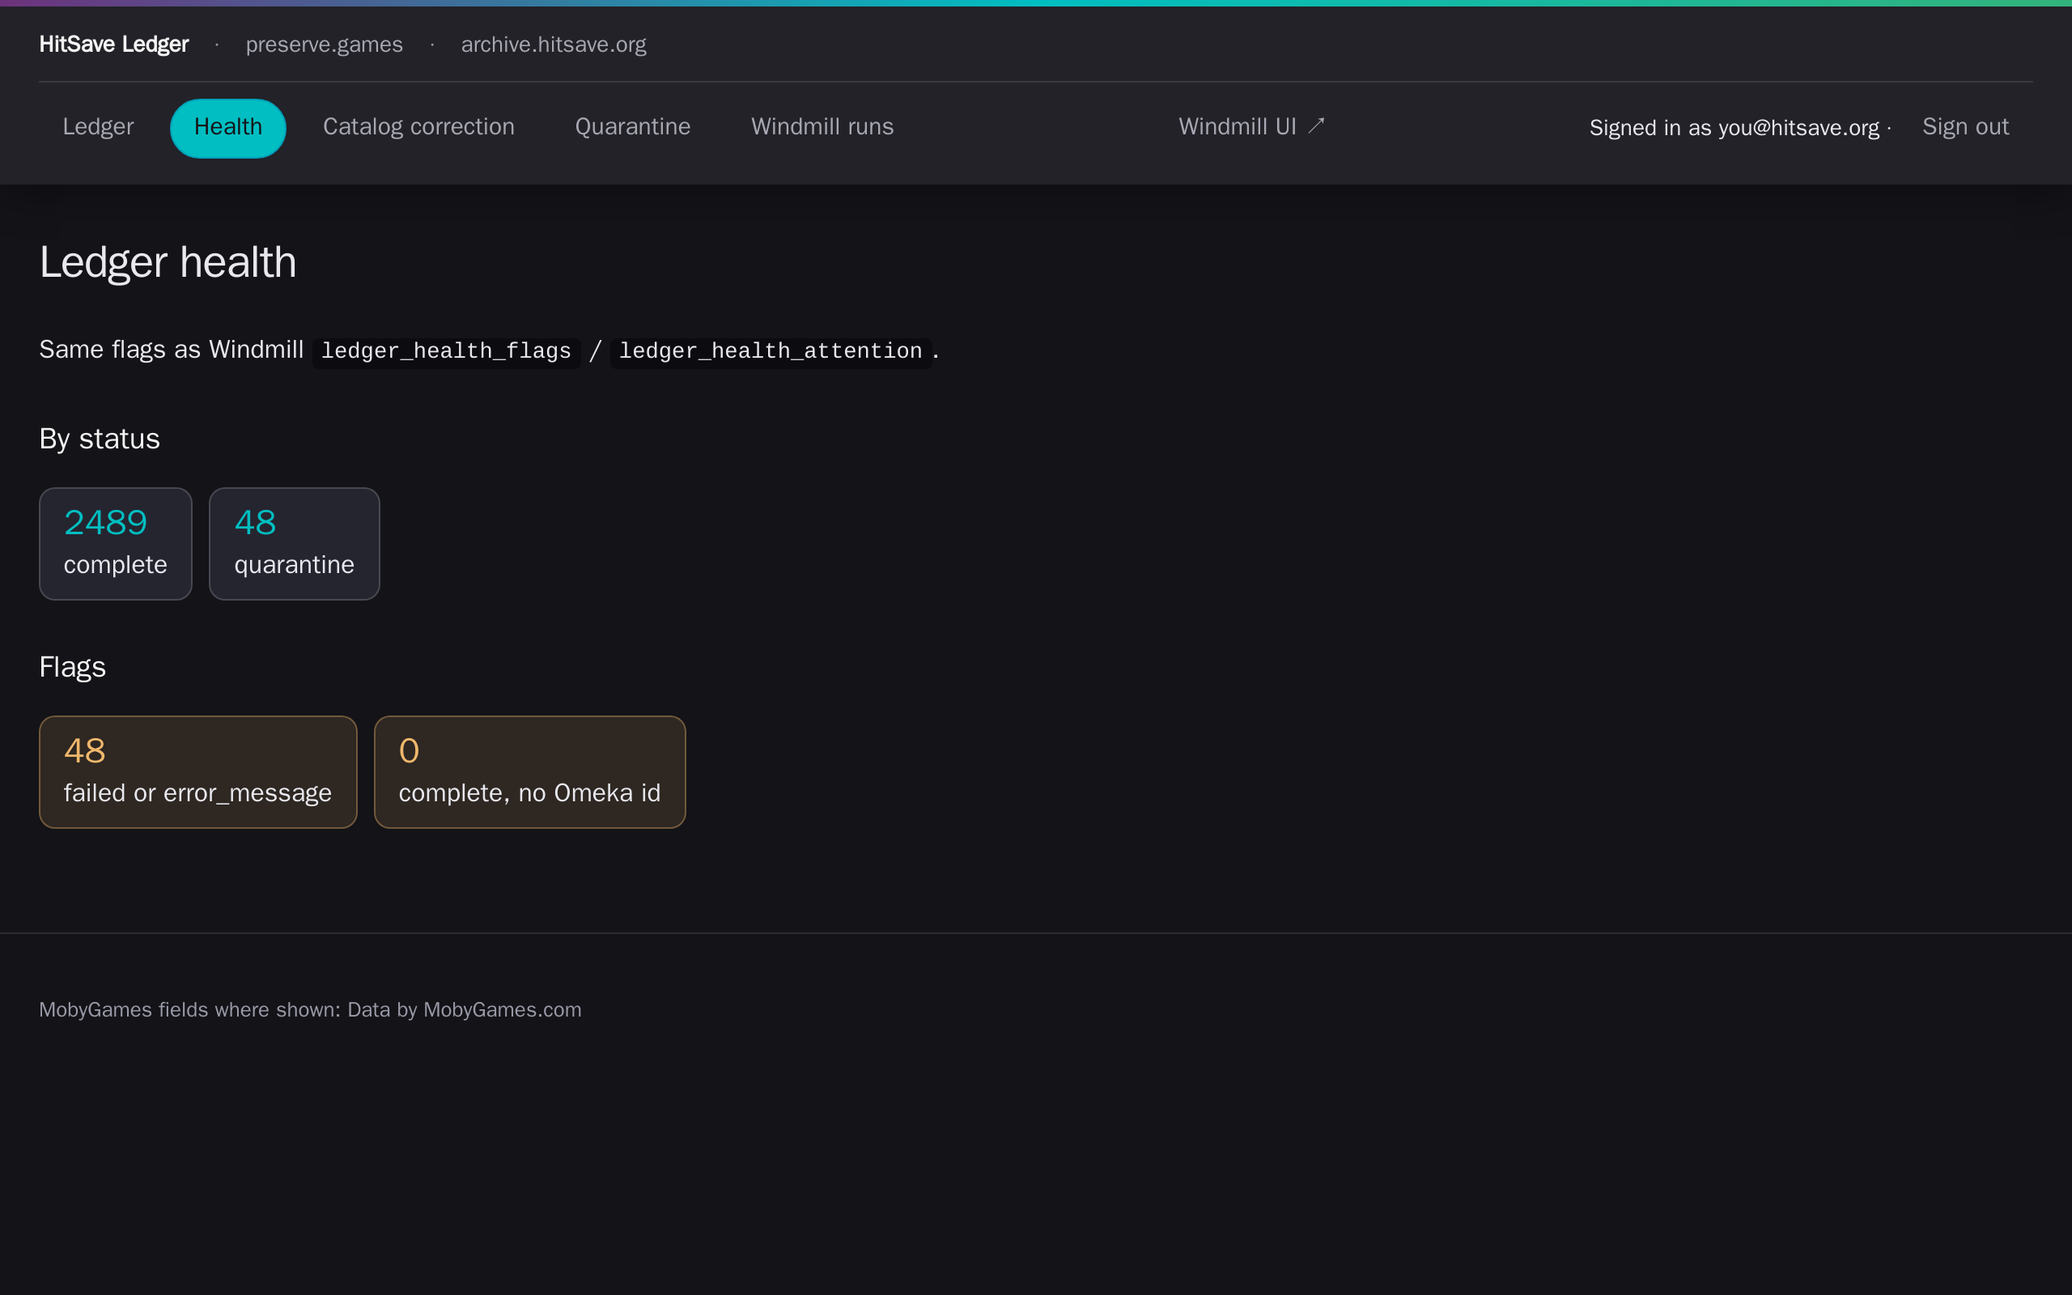
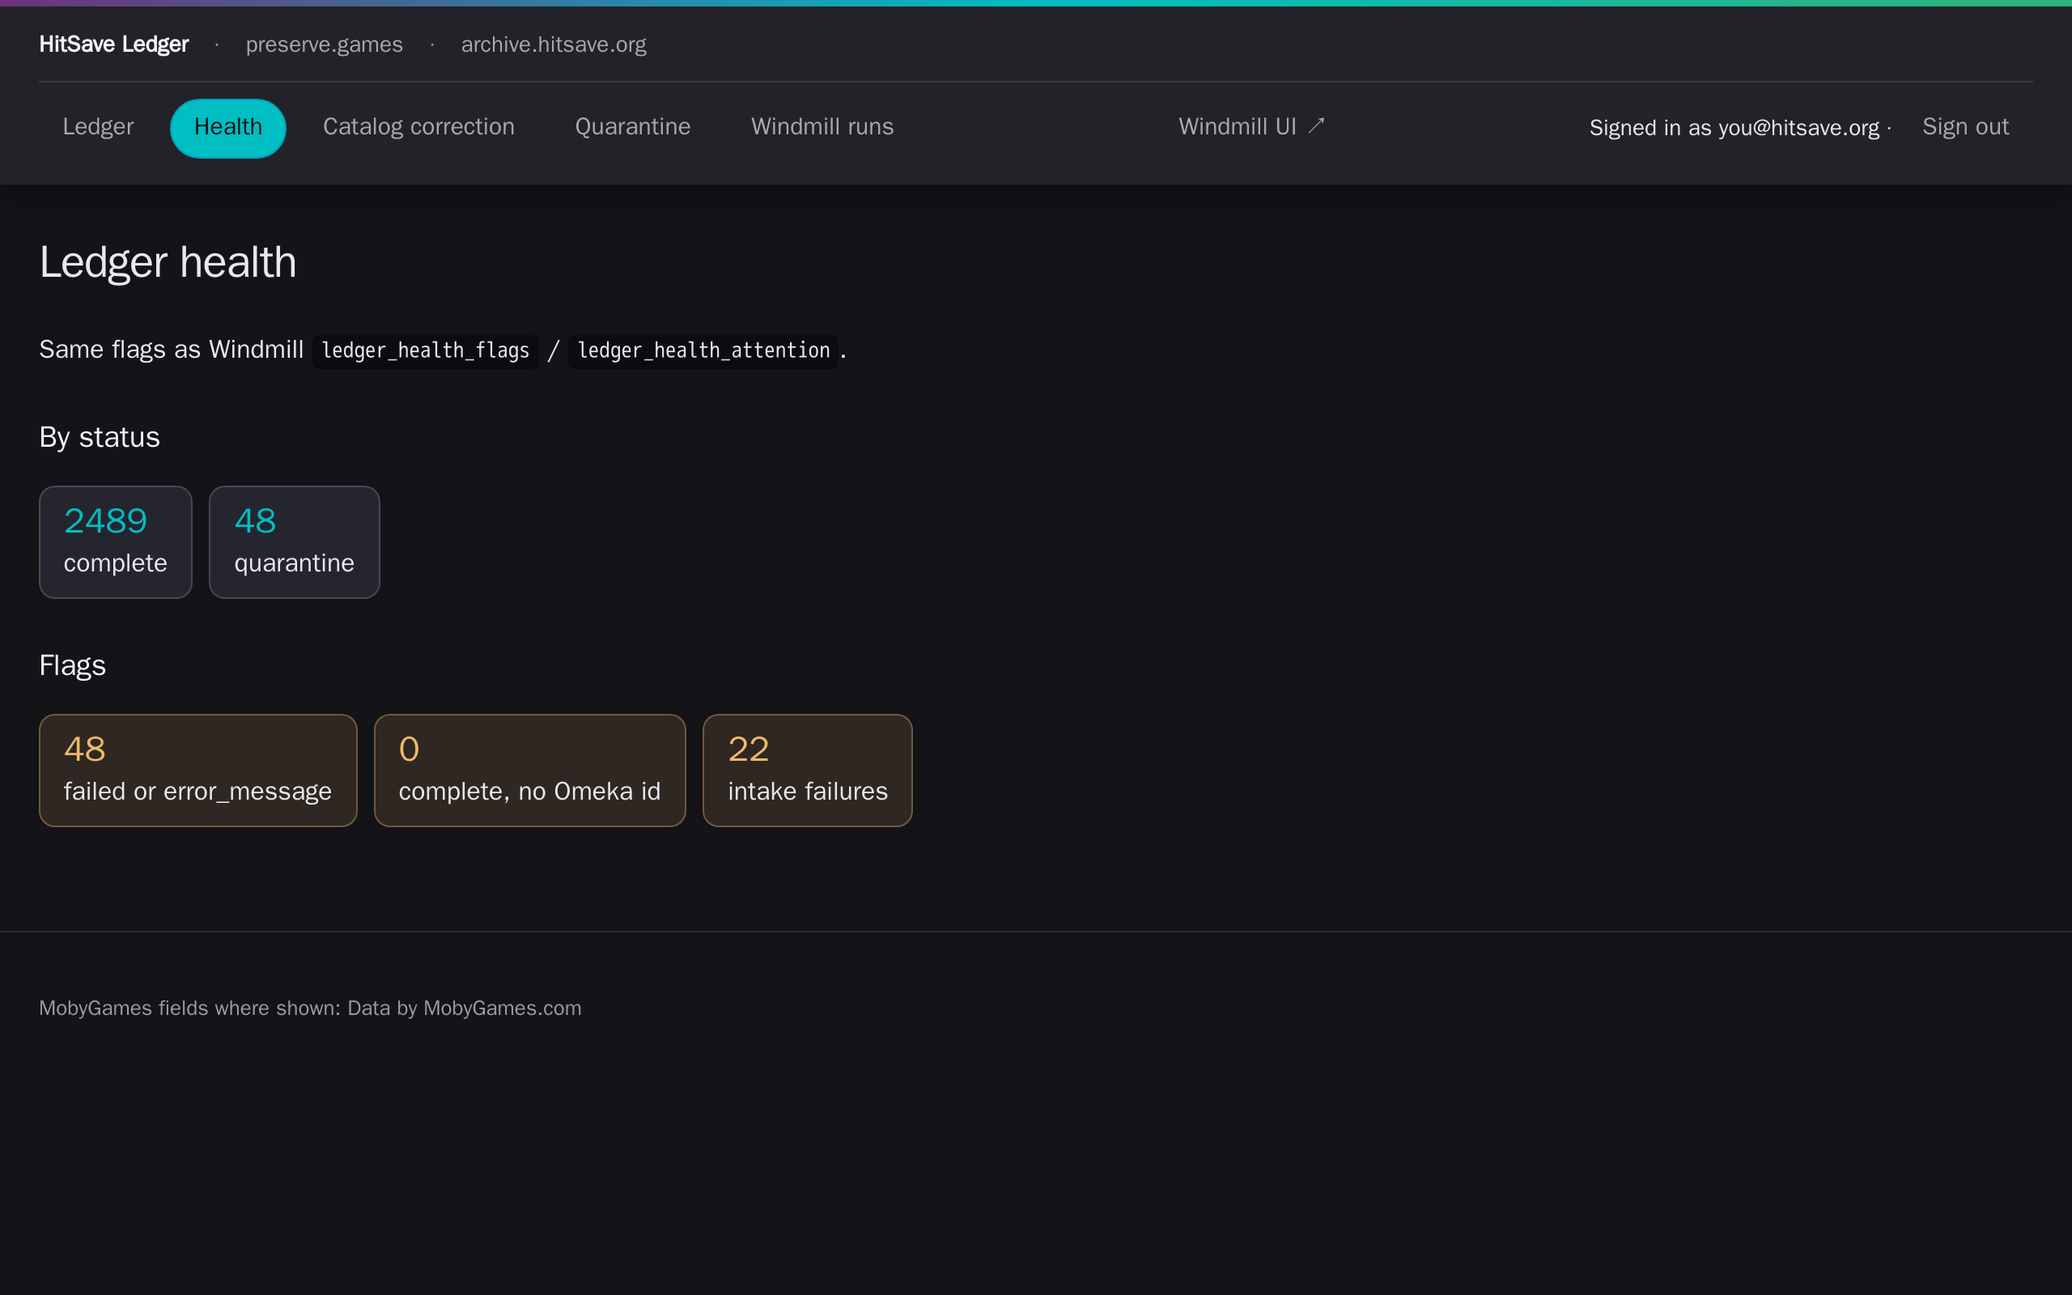
Record intake rejections in the ledger so the Health page lists them anywhere (#85)
- scripts/remote-intake/sync_intake_rejections.py mirrors intake's failed/
  folder into the ledger table intake_rejection (one transaction; leaves the
  table alone if the folder isn't mounted). Both per-folder runners call it at
  the end of every sweep (remote_intake_sync_rejections in common.sh, guarded
  against a missing folder). schema/010_intake_rejection.sql for new ledgers.
- Ledger app: reads failed/ when it's mounted, otherwise the table, so the
  Health page lists rejections again on luigi.
- Archivist guide: "If your package doesn't appear" points at the Intake
  failures list again; Health screenshot updated.

diff --git a/scripts/remote-intake/sync_intake_rejections.py b/scripts/remote-intake/sync_intake_rejections.py
@@ -1,0 +1,107 @@
+#!/usr/bin/env python3
+"""Mirror intake's failed/ folder into the ledger table intake_rejection.
+
+Intake rejects a package before it reaches the ledger (checksum mismatch, missing sidecar, wrong
+lane) and leaves it in failed/<slug>/ with an error.txt. That folder only exists on the host that
+runs intake, so the ledger app (which may run elsewhere) reads this table instead.
+
+Run at the end of each intake sweep, in the ingest-worker image:
+  -v "$HOST_INTAKE/failed:/data/intake-failed:ro" ... python sync_intake_rejections.py
+The table then holds exactly the packages currently in failed/. If the folder isn't mounted, the
+script changes nothing (it never empties the table because of a missing mount).
+"""
+from __future__ import annotations
+
+import argparse
+import sys
+from dataclasses import dataclass
+from datetime import datetime, timezone
+from pathlib import Path
+
+sys.path.insert(0, str(Path(__file__).resolve().parents[1]))
+from batch_ledger import pg_connect  # noqa: E402
+
+REASON_MAX = 300
+LANE_PREFIXES = {"redump-": "redump", "nointro-": "no-intro", "others-": "others"}
+
+DDL = """
+CREATE TABLE IF NOT EXISTS intake_rejection (
+    slug        text PRIMARY KEY,
+    lane        text,
+    reason      text NOT NULL,
+    failed_at   timestamptz NOT NULL,
+    recorded_at timestamptz NOT NULL DEFAULT now()
+)
+"""
+
+
+@dataclass
+class Rejection:
+    slug: str
+    lane: str | None
+    reason: str
+    failed_at: datetime
+
+
+def lane_for_slug(slug: str) -> str | None:
+    for prefix, lane in LANE_PREFIXES.items():
+        if slug.startswith(prefix):
+            return lane
+    return None
+
+
+def scan(failed_dir: Path) -> list[Rejection]:
+    """Every failed/<slug>/ folder: first line of error.txt and when it failed."""
+    out: list[Rejection] = []
+    for entry in sorted(failed_dir.iterdir()):
+        if not entry.is_dir() or entry.is_symlink():
+            continue
+        err = entry / "error.txt"
+        try:
+            st = (err if err.is_file() else entry).stat()
+            text = err.read_text(encoding="utf-8", errors="replace").strip() if err.is_file() else ""
+        except OSError:
+            continue
+        reason = (text.splitlines()[0] if text else "(no error.txt)")[:REASON_MAX]
+        out.append(Rejection(entry.name, lane_for_slug(entry.name), reason,
+                             datetime.fromtimestamp(st.st_mtime, timezone.utc)))
+    return out
+
+
+def sync(conn, rejections: list[Rejection]) -> tuple[int, int]:
+    """Make the table equal to rejections in one transaction. Returns (kept/updated, removed)."""
+    slugs = [r.slug for r in rejections]
+    with conn.transaction():
+        conn.execute(DDL)
+        removed = conn.execute(
+            "DELETE FROM intake_rejection WHERE NOT (slug = ANY(%s))", (slugs,)
+        ).rowcount
+        for r in rejections:
+            conn.execute(
+                """INSERT INTO intake_rejection (slug, lane, reason, failed_at)
+                   VALUES (%s, %s, %s, %s)
+                   ON CONFLICT (slug) DO UPDATE
+                   SET lane = EXCLUDED.lane, reason = EXCLUDED.reason, failed_at = EXCLUDED.failed_at,
+                       recorded_at = CASE WHEN intake_rejection.failed_at = EXCLUDED.failed_at
+                                          THEN intake_rejection.recorded_at ELSE now() END""",
+                (r.slug, r.lane, r.reason, r.failed_at),
+            )
+    return len(rejections), removed
+
+
+def main() -> int:
+    ap = argparse.ArgumentParser(description=__doc__.splitlines()[0])
+    ap.add_argument("--failed-dir", type=Path, default=Path("/data/intake-failed"))
+    args = ap.parse_args()
+    if not args.failed_dir.is_dir():
+        print(f"intake rejections: {args.failed_dir} not mounted; ledger table left unchanged", file=sys.stderr)
+        return 0
+    rejections = scan(args.failed_dir)
+    with pg_connect() as conn:
+        n, removed = sync(conn, rejections)
+    print(f"intake rejections: {n} in failed/, {removed} removed from the ledger table")
+    return 0
+
+
+if __name__ == "__main__":
+    sys.exit(main())

diff --git a/ledger/intake_failures.py b/ledger/intake_failures.py
@@ -47,9 +47,40 @@ def scan_failed_dir(failed_dir: Path = FAILED_DIR) -> list[IntakeFailure]:
     return out
 
 
+def ledger_rejections(connect: Callable[[], Any]) -> list[IntakeFailure] | None:
+    """Rows of the ledger table intake_rejection (mirror of failed/, synced by each intake sweep),
+    newest first; None when the table doesn't exist yet."""
+    with connect() as conn:
+        exists = conn.execute("SELECT to_regclass('intake_rejection') IS NOT NULL").fetchone()[0]
+        if not exists:
+            return None
+        rows = conn.execute(
+            "SELECT slug, failed_at, reason FROM intake_rejection ORDER BY failed_at DESC"
+        ).fetchall()
+    return [IntakeFailure(slug, failed_at, (reason or "")[:REASON_MAX]) for slug, failed_at, reason in rows]
+
+
+def load_failures(
+    connect: Callable[[], Any], failed_dir: Path = FAILED_DIR
+) -> tuple[list[IntakeFailure], int, bool]:
+    """(open failures, resolved count, available). Reads failed/ when it's mounted here, else the
+    ledger table; available is False when neither exists."""
+    if failed_dir.is_dir():
+        return (*open_failures(connect, failed_dir), True)
+    failures = ledger_rejections(connect)
+    if failures is None:
+        return [], 0, False
+    return (*_drop_resolved(connect, failures), True)
+
+
 def open_failures(connect: Callable[[], Any], failed_dir: Path = FAILED_DIR) -> tuple[list[IntakeFailure], int]:
     """(still-open failures, count resolved since: slug preserved later per the ledger)."""
-    failures = scan_failed_dir(failed_dir)
+    return _drop_resolved(connect, scan_failed_dir(failed_dir))
+
+
+def _drop_resolved(
+    connect: Callable[[], Any], failures: list[IntakeFailure]
+) -> tuple[list[IntakeFailure], int]:
     if not failures:
         return [], 0
     sources = [READY_SOURCE_PREFIX + f.slug for f in failures]
@@ -64,9 +95,15 @@ def open_failures(connect: Callable[[], Any], failed_dir: Path = FAILED_DIR) -> 
 
 
 def render_intake_failures(
-    failures: list[IntakeFailure], resolved: int, *, failed_dir: Path = FAILED_DIR
+    failures: list[IntakeFailure],
+    resolved: int,
+    *,
+    failed_dir: Path = FAILED_DIR,
+    available: bool | None = None,
 ) -> str:
-    if not failed_dir.is_dir():
+    if available is None:
+        available = failed_dir.is_dir()
+    if not available:
         return (
             '<p class="muted">Intake failures aren\'t available here: the intake <code>failed/</code> '
             "folder isn't mounted on this host (intake runs elsewhere). Ask an admin, or check the "
@@ -76,7 +113,8 @@ def render_intake_failures(
         "<p>Packages intake rejected before they reached the ledger, usually because a file "
         "didn't match the checksums in its sidecar, or the upload was incomplete. Intake tries "
         "again automatically once the package changes in the inbox (re-upload or fix the sidecar). "
-        "Details: <code>failed/&lt;package&gt;/error.txt</code> in the intake folder.</p>"
+        "The full error is in <code>failed/&lt;package&gt;/error.txt</code> in the intake folder; "
+        "ask an admin if the first line isn't enough.</p>"
     )
     note = f'<p class="muted">{resolved} older failure(s) not shown: those packages were preserved later.</p>' if resolved else ""
     if not failures:

diff --git a/tests/test_sync_intake_rejections.py b/tests/test_sync_intake_rejections.py
@@ -1,0 +1,75 @@
+"""sync_intake_rejections: the ledger table mirrors intake's failed/ folder."""
+from __future__ import annotations
+
+import importlib.util
+import os
+import sys
+from pathlib import Path
+
+ROOT = Path(__file__).resolve().parents[1]
+sys.path.insert(0, str(ROOT / "scripts"))
+_spec = importlib.util.spec_from_file_location(
+    "sync_intake_rejections", ROOT / "scripts/remote-intake/sync_intake_rejections.py")
+sync_mod = importlib.util.module_from_spec(_spec)
+_spec.loader.exec_module(sync_mod)
+
+
+def _fail(root: Path, slug: str, text: str | None, mtime: int) -> None:
+    d = root / slug
+    d.mkdir(parents=True)
+    if text is not None:
+        (d / "error.txt").write_text(text)
+        os.utime(d / "error.txt", (mtime, mtime))
+
+
+def test_scan_reads_first_line_and_lane(tmp_path: Path) -> None:
+    _fail(tmp_path, "nointro-aka", "no-intro/ lane needs a No-Intro dumpinfo.txt\nmore detail", 1_000)
+    _fail(tmp_path, "redump-disc", None, 2_000)
+    _fail(tmp_path, "legacy-x", "boom", 3_000)
+    (tmp_path / "stray.txt").write_text("not a package")
+    got = {r.slug: r for r in sync_mod.scan(tmp_path)}
+    assert set(got) == {"nointro-aka", "redump-disc", "legacy-x"}
+    assert got["nointro-aka"].reason == "no-intro/ lane needs a No-Intro dumpinfo.txt"
+    assert got["nointro-aka"].lane == "no-intro" and got["legacy-x"].lane is None
+    assert got["redump-disc"].reason == "(no error.txt)"
+
+
+class _Conn:
+    def __init__(self):
+        self.calls = []
+
+    def transaction(self):
+        conn = self
+
+        class _T:
+            def __enter__(self):
+                conn.calls.append(("BEGIN",))
+
+            def __exit__(self, *exc):
+                conn.calls.append(("COMMIT",))
+                return False
+        return _T()
+
+    def execute(self, sql, params=None):
+        self.calls.append((" ".join(sql.split())[:40], params))
+
+        class _R:
+            rowcount = 2
+        return _R()
+
+
+def test_sync_replaces_table_in_one_transaction(tmp_path: Path) -> None:
+    _fail(tmp_path, "others-press-kit", "boom", 1_000)
+    conn = _Conn()
+    n, removed = sync_mod.sync(conn, sync_mod.scan(tmp_path))
+    assert (n, removed) == (1, 2)
+    kinds = [c[0].split()[0] for c in conn.calls]
+    assert kinds == ["BEGIN", "CREATE", "DELETE", "INSERT", "COMMIT"]
+    assert conn.calls[2][1] == (["others-press-kit"],)
+
+
+def test_missing_folder_changes_nothing(tmp_path: Path, monkeypatch, capsys) -> None:
+    monkeypatch.setattr(sys, "argv", ["x", "--failed-dir", str(tmp_path / "not-mounted")])
+    monkeypatch.setattr(sync_mod, "pg_connect", lambda: (_ for _ in ()).throw(AssertionError("no DB")))
+    assert sync_mod.main() == 0
+    assert "left unchanged" in capsys.readouterr().err

diff --git a/tests/test_intake_failures_web.py b/tests/test_intake_failures_web.py
@@ -81,3 +81,50 @@ def test_render_escapes_and_handles_empty(tmp_path: Path) -> None:
 def test_render_says_unavailable_when_folder_not_mounted(tmp_path: Path) -> None:
     page = render_intake_failures([], 0, failed_dir=tmp_path / "not-mounted")
     assert "aren't available here" in page and "No open intake failures" not in page
+
+
+class _TableConn(_Conn):
+    """Fake connection for the ledger-table path (failed/ not mounted where the ledger runs)."""
+
+    def __init__(self, rows, complete_sources=(), table=True):
+        super().__init__(complete_sources)
+        self.rows, self.table = rows, table
+
+    def execute(self, sql, params=None):
+        if "to_regclass" in sql:
+            return _Result([(self.table,)])
+        if "FROM intake_rejection" in sql:
+            return _Result(self.rows)
+        return super().execute(sql, params)
+
+
+class _Result:
+    def __init__(self, rows):
+        self.rows = rows
+
+    def fetchone(self):
+        return self.rows[0]
+
+    def fetchall(self):
+        return self.rows
+
+
+def test_reads_ledger_table_when_failed_dir_not_mounted(tmp_path: Path) -> None:
+    from datetime import datetime, timezone
+
+    from intake_failures import load_failures
+
+    t = datetime(2026, 11, 2, 12, 0, tzinfo=timezone.utc)
+    conn = _TableConn([("nointro-cart", t, "SHA-1 mismatch"), ("redump-fixed", t, "old")],
+                      complete_sources=["/data/intake/ready/redump-fixed"])
+    open_, resolved, available = load_failures(lambda: conn, tmp_path / "not-mounted")
+    assert available and resolved == 1
+    assert [(f.slug, f.reason) for f in open_] == [("nointro-cart", "SHA-1 mismatch")]
+    page = render_intake_failures(open_, resolved, available=True)
+    assert "nointro-cart" in page and "aren't available" not in page
+
+
+def test_unavailable_without_folder_or_table(tmp_path: Path) -> None:
+    from intake_failures import load_failures
+
+    assert load_failures(lambda: _TableConn([], table=False), tmp_path / "x") == ([], 0, False)

diff --git a/ledger/app.py b/ledger/app.py
@@ -26,7 +26,7 @@ from catalog_quarantine import (
 )
 from catalog_visibility import run_visibility
 from ledger_health import fetch_attention_rows, fetch_health_summary
-from intake_failures import FAILED_DIR, open_failures, render_intake_failures
+from intake_failures import load_failures, render_intake_failures
 
 sys.path.insert(0, str(Path("/app/scripts")))
 from ledger_health_report import (  # noqa: E402
@@ -462,8 +462,7 @@ def render_health(*, sort: str = "updated_at", sort_dir: str = "desc") -> bytes:
         f'<div class="chip chip-warn"><strong>{missing_omeka}</strong>complete, no Omeka id</div>'
     )
     rows = fetch_attention_rows(connect, sort=sort, sort_dir=sort_dir)
-    intake_open, intake_resolved = open_failures(connect)
-    intake_here = FAILED_DIR.is_dir()
+    intake_open, intake_resolved, intake_here = load_failures(connect)
     if intake_here:
         flag_chips += (
             f'<div class="chip chip-warn"><strong>{len(intake_open)}</strong>intake failures</div>'
@@ -478,7 +477,7 @@ def render_health(*, sort: str = "updated_at", sort_dir: str = "desc") -> bytes:
 <p>Failed, quarantined, <code>complete</code> without <code>omeka_item_id</code>, or non-empty <code>error_message</code>.</p>
 {_render_attention_table(rows, sort=sort, sort_dir=sort_dir)}
 <h2>Intake failures{f' ({len(intake_open)})' if intake_here else ''}</h2>
-{render_intake_failures(intake_open, intake_resolved)}"""
+{render_intake_failures(intake_open, intake_resolved, available=intake_here)}"""
     return render_page_shell(
         title="Ledger health", active="health", inner=inner, status_config=CONFIG
     )

diff --git a/docs/archivist-guide.md b/docs/archivist-guide.md
@@ -108,23 +108,26 @@ catalog title. You can still [fix a title](#fix-a-catalog-record) later.
 
 The **Health** page shows the same packages from the other side: counts by status, and an
 **Attention queue** of every package that needs someone, such as quarantined or failed packages and
-complete packages without a catalog record. If the attention queue is empty, nothing needs you.
+complete packages without a catalog record. Below it, **Intake failures** lists packages the archive
+rejected before they reached the ledger. If both lists are empty, nothing needs you.
 
 ![The top of the Health page: counts by status and the flags that need attention](images/archivist-guide/health-summary.png)
 
 ### If your package doesn't appear
 
-If a package hasn't appeared in the ledger three hours after its upload finished, the archive
-probably rejected it before it got that far. The usual reasons are:
+If a package doesn't appear in the ledger, the archive probably rejected it before it got that far.
+The **Health** page lists rejected packages, with the reason, under **Intake failures** at the
+bottom. The usual reasons are:
 
 - A file doesn't match the checksums in the sidecar, often because the upload was cut short.
 - The sidecar is missing.
-- The dump is in the wrong inbox, for example a No-Intro dump in `redump`.
+- The dump is in the wrong inbox. The reason then says where it belongs, for example
+  `this looks like a No-Intro dump: move it to no-intro/`.
 
-The ledger can't show these rejections at the moment, so ask an admin, who can see the reason. To
-fix the problem, correct the folder in the inbox: upload the damaged file again, add or replace the
+To fix it, correct the folder in the inbox: upload the damaged file again, add or replace the
 sidecar, or move the folder to the right inbox. The archive notices the change and tries again on
-its own. It doesn't retry a folder that hasn't changed.
+its own; it doesn't retry a folder that hasn't changed. The list updates after every inbox check,
+so a fixed package drops off within about 30 minutes after the archive takes it in.
 
 ## Leave the inbox and processed folders to the archive
 
@@ -223,7 +226,7 @@ Before the archive preserves a package:
 | Check | What it catches | If it fails |
 |---|---|---|
 | **Upload finished**: nothing changed for one hour | Uploads still in progress | The archive waits and checks again. |
-| **Sidecar checksums**: size, MD5, SHA-1 and CRC32 of every file (`redump` and `no-intro`) | Damaged or incomplete files, or the wrong sidecar | The package never reaches the ledger; see [If your package doesn't appear](#if-your-package-doesnt-appear). |
+| **Sidecar checksums**: size, MD5, SHA-1 and CRC32 of every file (`redump` and `no-intro`) | Damaged or incomplete files, or the wrong sidecar | The package never reaches the ledger and appears under **Intake failures** on the Health page; see [If your package doesn't appear](#if-your-package-doesnt-appear). |
 | **Virus scan** of every file | Known malware | Status `quarantine`; nothing uploaded. |
 | **Content rules** | Image collections with meaningless or tag-style file names, typical of image-board downloads | Status `quarantine`; nothing uploaded. |
 | **Package check** | Files that went missing or changed while the archive packed them | Status `failed`. |
